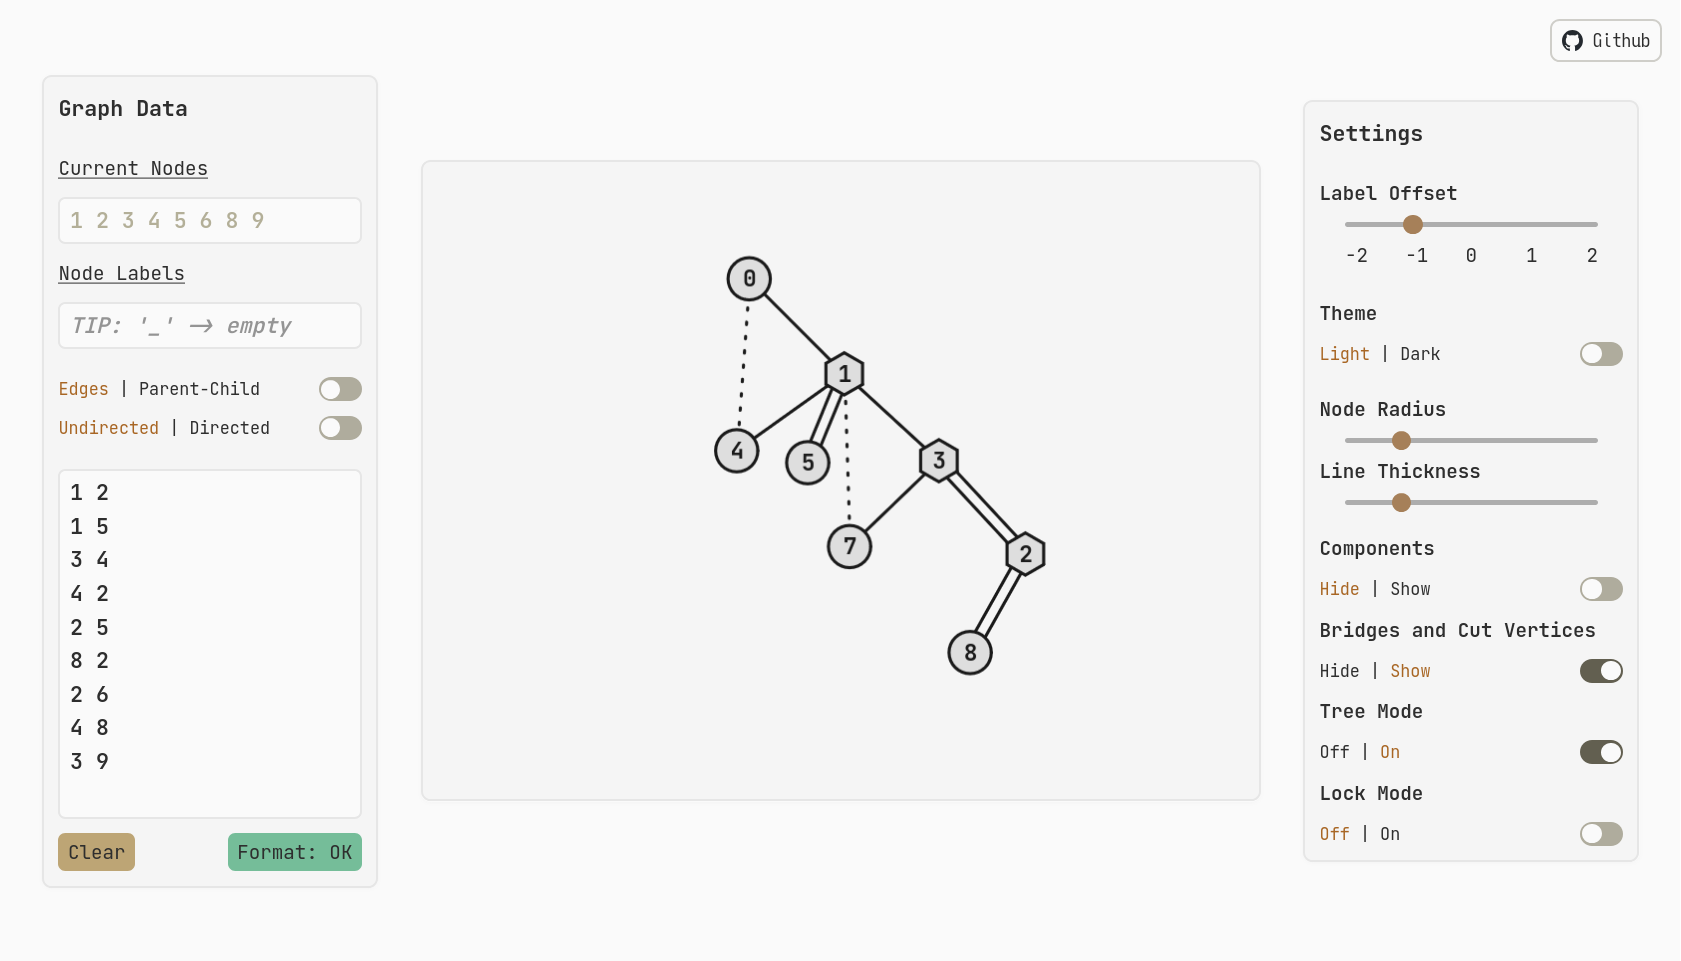
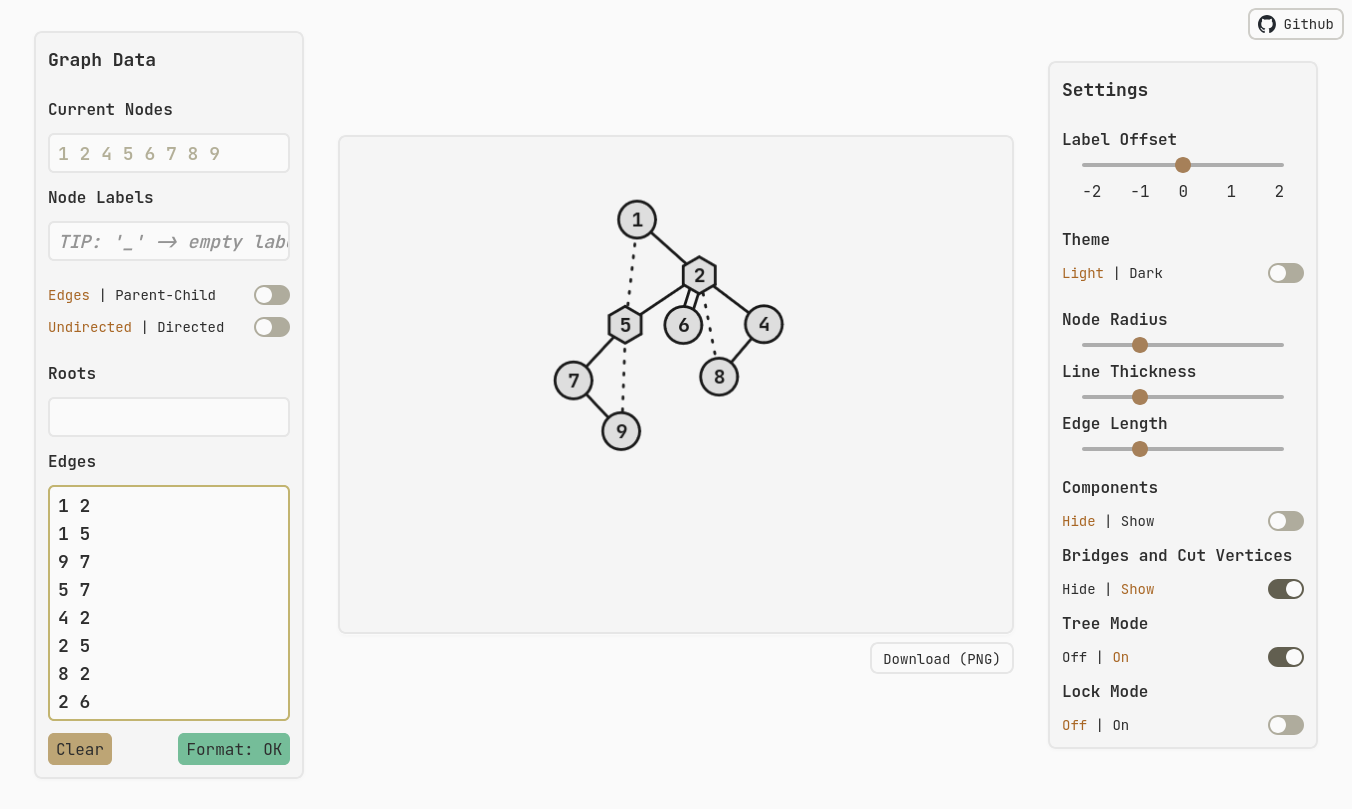
chore: update README

diff --git a/README.md b/README.md
@@ -19,7 +19,7 @@ Made with React, Typescript, Tailwind CSS, and HTML Canvas.
   - A list of edges `u v [w]`, denoting an edge from node `u` to node `v`, where
   `w` is an optional edge label.
   - Leetcode-style adjacency list strings such as `[[2,4],[1,3],[2,1],[4,3]]`;
-  ensure that you do *not* put any spaces inside the string.
+  ensure that you do **not** put any spaces inside the string.
   - A parent and child array, where `p[i]` and `c[i]` denote an edge from
   node `p[i]` to `c[i]`.
   - Assuming a nonzero number of nodes, you may also label each node. This
@@ -40,6 +40,14 @@ Made with React, Typescript, Tailwind CSS, and HTML Canvas.
 <em>A Demonstration of the Parent-Child Input Format</em>
 </p>
 
+<p align="center">
+    <img src="screenshots/leetcode.png?" />
+</p>
+
+<p align="center">
+<em>Leetcode-Style Adjacency Lists Work as Well Under Edges</em>
+</p>
+
 > [!NOTE]
 > *Tree Mode* and *Bridges* are only available for undirected graphs.
 
@@ -48,8 +56,9 @@ Made with React, Typescript, Tailwind CSS, and HTML Canvas.
 
 ## Configuration
 
-In addition to the light/dark themes, there are two sliders available
-for adjusting the *node radius* and *line thickness* at discrete intervals.
+In addition to the light/dark themes, there are three sliders available
+for adjusting the *node radius*, *line thickness*, and *edge length* at discrete
+intervals. Your configuration will be preserved across refreshes.
 
 > [!NOTE]
 > As the node radius changes, the font size is scaled accordingly to maintain readability.
@@ -78,16 +87,29 @@ Adjust the input format to your liking and type away!
 
 ### Tree Mode
 
-In this mode, the *first* node that appears in the input data becomes
-the root; therefore, if you require some arbitrary node `u` as the root,
-enter `u` at the top of your input data.
+In this mode, the *first* node that appears in the input data becomes the root.
 
 <p align="center">
-    <img src="screenshots/twoRoot.png?" />
+    <img src="screenshots/twoRootBefore.png?" />
 </p>
 
 <p align="center">
-<em>Making Node 2 the Root Instead of Node 1</em>
+<em>Node 1 is the Original Root</em>
+</p>
+
+To set some arbitrary root, say node 2, as the root, under the *Roots*
+section, type `2`, and it'll become the root of the tree. In scenarios where
+you have multiple trees, simply type a comma-separated list of all the roots.
+A caveat is that if you type two nodes that belong to the same tree under
+*Roots*, the one that comes first takes precedence, i.e., if you type
+`2 1`, then node 2 is the root, but if you type `1 2`, then node 1 is the root.
+
+<p align="center">
+    <img src="screenshots/twoRootAfter.png?" />
+</p>
+
+<p align="center">
+<em>Node 2 is the New Root</em>
 </p>
 
 What happens if the graph isn't a tree? Well, the **DFS Tree** would be
